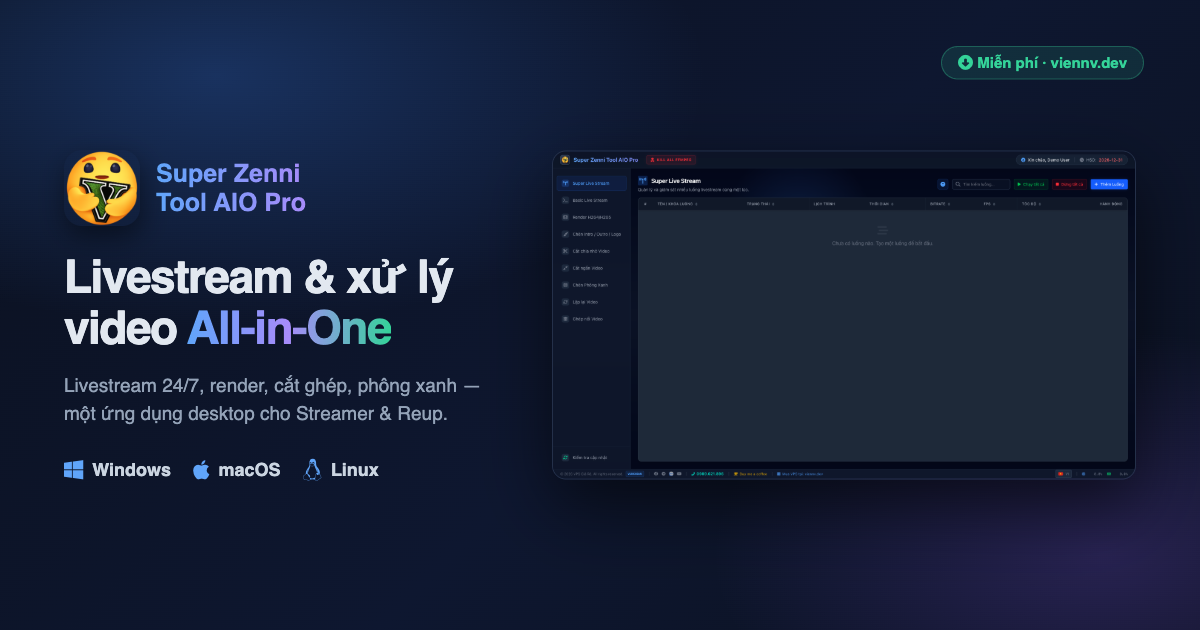
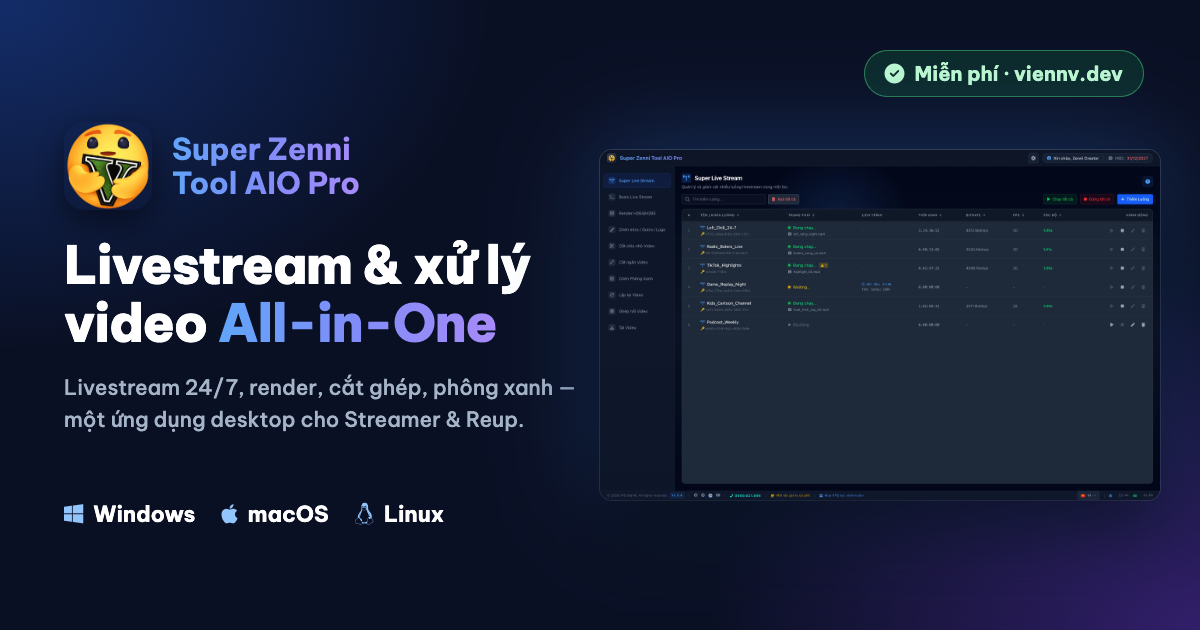
feat: real-UI screenshots with demo data + intro video
- Replace the empty-table screenshots with the current UI filled with demo
  data (running streams, renders in progress, downloads) — one set per page
  language (EN/VI), WebP, swapped by applyLang
- Gallery: 6 tools (Render, Intro/Outro/Logo, Green screen, Download,
  Basic Live Stream, in-app guide); lightbox caption follows the language
- New "Watch the intro" section: YouTube J_BgujEUUCw behind a poster, the
  player loads only on click (youtube-nocookie); hero CTA + nav link to it
- New og-image (cache-busted ?v=2), VideoObject structured data
- README: video badge + clickable poster

diff --git a/index.html b/index.html
@@ -19,7 +19,7 @@
 <meta property="og:url" content="https://zenni-aio.viennv.dev/" />
 <meta property="og:title" content="Super Zenni Tool AIO Pro — All-in-One Livestream &amp; Video Tool" />
 <meta property="og:description" content="24/7 multi-stream livestreaming, render, split/trim video, green screen. Free for Windows · macOS · Linux." />
-<meta property="og:image" content="https://zenni-aio.viennv.dev/assets/og-image.png" />
+<meta property="og:image" content="https://zenni-aio.viennv.dev/assets/og-image.png?v=2" />
 <meta property="og:image:width" content="1200" />
 <meta property="og:image:height" content="630" />
 <meta property="og:image:alt" content="Super Zenni Tool AIO Pro" />
@@ -28,7 +28,7 @@
 <meta name="twitter:card" content="summary_large_image" />
 <meta name="twitter:title" content="Super Zenni Tool AIO Pro" />
 <meta name="twitter:description" content="All-in-one livestream &amp; video tool. Free for Windows · macOS · Linux." />
-<meta name="twitter:image" content="https://zenni-aio.viennv.dev/assets/og-image.png" />
+<meta name="twitter:image" content="https://zenni-aio.viennv.dev/assets/og-image.png?v=2" />
 
 <link rel="icon" type="image/png" href="assets/favicon.png" />
 <link rel="apple-touch-icon" href="assets/favicon.png" />
@@ -166,6 +166,19 @@
   .shot img:hover { transform: translateY(-4px); box-shadow: 0 18px 44px rgba(59,130,246,.28); }
   .shot figcaption { text-align: center; color: var(--mut); font-size: 13px; margin-top: 10px; }
 
+  /* Intro video — a poster until clicked, so YouTube loads nothing up front */
+  .yt { position: relative; max-width: 960px; margin: 0 auto; aspect-ratio: 16 / 9; border-radius: 16px; overflow: hidden; border: 1px solid var(--line); box-shadow: 0 26px 70px rgba(0,0,0,.55); background: #000; }
+  .yt-play { position: absolute; inset: 0; width: 100%; height: 100%; padding: 0; border: 0; background: none; cursor: pointer; }
+  .yt-play img { width: 100%; height: 100%; object-fit: cover; display: block; transition: transform .3s, filter .3s; }
+  .yt-play:hover img { transform: scale(1.02); filter: brightness(1.08); }
+  .yt-btn { position: absolute; left: 50%; top: 50%; width: 84px; height: 60px; margin: -30px 0 0 -42px; border-radius: 16px; background: #ff0033; color: #fff; font-size: 24px; display: grid; place-items: center; box-shadow: 0 12px 34px rgba(0,0,0,.55); transition: transform .2s; }
+  .yt-play:hover .yt-btn { transform: scale(1.08); }
+  .yt iframe { position: absolute; inset: 0; width: 100%; height: 100%; border: 0; }
+  .yt-link { text-align: center; margin-top: 16px; font-size: 14px; }
+  .yt-link a { color: var(--mut); transition: color .15s; }
+  .yt-link a:hover { color: #fff; }
+  .yt-link .fa-youtube { color: #ff0033; }
+
   /* Lightbox */
   .lightbox { position: fixed; inset: 0; z-index: 1000; display: flex; align-items: center; justify-content: center; background: rgba(2,6,16,.9); backdrop-filter: blur(6px); padding: 32px; opacity: 0; visibility: hidden; transition: opacity .2s, visibility .2s; }
   .lightbox.open { opacity: 1; visibility: visible; }
@@ -274,6 +287,7 @@
     <div class="nav-right">
       <nav class="nav-links" id="navlinks">
         <a href="#download" data-i18n="nav.download">Download</a>
+        <a href="#video" data-i18n="nav.video">Video</a>
         <a href="#features" data-i18n="nav.features">Features</a>
         <a href="#screenshots" data-i18n="nav.screenshots">Screenshots</a>
         <a href="#install" data-i18n="nav.install">Install</a>
@@ -300,12 +314,12 @@
       <p class="tags"><i class="fab fa-windows"></i> Windows &nbsp;·&nbsp; <i class="fab fa-apple"></i> macOS &nbsp;·&nbsp; <i class="fab fa-linux"></i> Linux</p>
       <div class="cta">
         <a class="btn btn-primary" href="#download"><i class="fas fa-download"></i> <span data-i18n="hero.ctaDownload">Download now</span></a>
-        <a class="btn btn-ghost" href="#features"><i class="fas fa-rocket"></i> <span data-i18n="hero.ctaFeatures">See features</span></a>
+        <a class="btn btn-ghost" href="#video"><i class="fas fa-play"></i> <span data-i18n="hero.ctaVideo">Watch the intro</span></a>
       </div>
       <div><a class="ver" id="release-link" href="https://github.com/youtubervn/Super-Zenni-Tool-AIO-releases/releases/latest" target="_blank" rel="noopener" data-i18n="hero.allVersions">All versions &amp; changelog &#8599;</a></div>
     </div>
     <div class="hero-right">
-      <img class="hero-shot" src="assets/screenshots/super-live-stream.png" alt="Super Zenni Tool AIO Pro" loading="eager" />
+      <img class="hero-shot" src="assets/screenshots/super-live-stream-en.webp" data-shot="super-live-stream" width="1920" height="1200" alt="Super Zenni Tool AIO Pro — Super Live Stream" loading="eager" />
     </div>
   </div>
 </div>
@@ -343,6 +357,20 @@
   </div>
 </section>
 
+<!-- VIDEO -->
+<section id="video" style="background:var(--bg2);">
+  <div class="wrap">
+    <div class="sec-head"><h2><i class="fab fa-youtube"></i> <span data-i18n="video.title">Watch the intro</span></h2><p data-i18n="video.sub">Every tool in action — in under 2 minutes.</p></div>
+    <div class="yt">
+      <button class="yt-play" id="yt-play" type="button" aria-label="Play video" data-i18n-aria="video.play">
+        <img src="assets/video-poster.jpg" alt="Livestream 24/7 – Super Zenni Tool AIO Pro" width="1280" height="720" loading="lazy" />
+        <span class="yt-btn"><i class="fas fa-play"></i></span>
+      </button>
+    </div>
+    <p class="yt-link"><a href="https://youtu.be/J_BgujEUUCw" target="_blank" rel="noopener"><i class="fab fa-youtube"></i> <span data-i18n="video.open">Watch on YouTube</span> &#8599;</a></p>
+  </div>
+</section>
+
 <!-- FEATURES -->
 <section id="features">
   <div class="wrap">
@@ -369,9 +397,12 @@
   <div class="wrap">
     <div class="sec-head"><h2><i class="fas fa-image"></i> <span data-i18n="shots.title">Screenshots</span></h2><p data-i18n="shots.sub">Clean, modern, easy to use.</p></div>
     <div class="shots">
-      <figure class="shot"><img src="assets/screenshots/chroma-key.png" alt="Green Screen / Chroma Key" loading="lazy" /><figcaption data-i18n="shots.cap1">Green Screen — overlay a chroma-key clip onto your video</figcaption></figure>
-      <figure class="shot"><img src="assets/screenshots/render-h264.png" alt="Render H264/H265" loading="lazy" /><figcaption data-i18n="shots.cap2">Render H264 / H265 — batch transcode</figcaption></figure>
-      <figure class="shot"><img src="assets/screenshots/in-app-guide.png" alt="In-app guide" loading="lazy" /><figcaption data-i18n="shots.cap3">Built-in guide for each tool</figcaption></figure>
+      <figure class="shot"><img src="assets/screenshots/render-h264-en.webp" data-shot="render-h264" width="1920" height="1200" alt="Render H264 / H265" loading="lazy" /><figcaption data-i18n="shots.cap1"></figcaption></figure>
+      <figure class="shot"><img src="assets/screenshots/intro-outro-logo-en.webp" data-shot="intro-outro-logo" width="1920" height="1200" alt="Intro / Outro / Logo" loading="lazy" /><figcaption data-i18n="shots.cap2"></figcaption></figure>
+      <figure class="shot"><img src="assets/screenshots/chroma-key-en.webp" data-shot="chroma-key" width="1920" height="1200" alt="Green Screen / Chroma Key" loading="lazy" /><figcaption data-i18n="shots.cap3"></figcaption></figure>
+      <figure class="shot"><img src="assets/screenshots/download-video-en.webp" data-shot="download-video" width="1920" height="1200" alt="Download Video" loading="lazy" /><figcaption data-i18n="shots.cap4"></figcaption></figure>
+      <figure class="shot"><img src="assets/screenshots/basic-live-stream-en.webp" data-shot="basic-live-stream" width="1920" height="1200" alt="Basic Live Stream" loading="lazy" /><figcaption data-i18n="shots.cap5"></figcaption></figure>
+      <figure class="shot"><img src="assets/screenshots/in-app-guide-en.webp" data-shot="in-app-guide" width="1920" height="1200" alt="In-app guide" loading="lazy" /><figcaption data-i18n="shots.cap6"></figcaption></figure>
     </div>
   </div>
 </section>
@@ -472,10 +503,10 @@
   /* ---------------- i18n ---------------- */
   var I18N = {
     en: {
-      "nav.download":"Download","nav.features":"Features","nav.screenshots":"Screenshots","nav.stats":"Stats","nav.install":"Install","nav.faq":"FAQ",
+      "nav.download":"Download","nav.video":"Video","nav.features":"Features","nav.screenshots":"Screenshots","nav.stats":"Stats","nav.install":"Install","nav.faq":"FAQ",
       "hero.latest":"Latest version","hero.title":"All-in-One video toolkit <span class=\"grad\">for Streamers &amp; Reup</span>",
       "hero.sub":"24/7 livestreaming, render, split &amp; merge, intro/outro/logo, green screen — all in one desktop app. Auto-updating, nothing else to install.",
-      "hero.ctaDownload":"Download now","hero.ctaFeatures":"See features","hero.allVersions":"All versions &amp; changelog &#8599;",
+      "hero.ctaDownload":"Download now","hero.ctaVideo":"Watch the intro","hero.allVersions":"All versions &amp; changelog &#8599;",
       "dl.title":"Download","dl.sub":"Pick your operating system — links always point to the latest build.","dl.btn":"Download",
       "dl.noteWin":"Run directly, no install","dl.noteMac":"Unzip → drag to Applications","dl.noteLinux":"Extract → make executable",
       "dl.version":"Version","dl.released":"Released","dl.req":"Windows 10+ · macOS 11+ · 64-bit",
@@ -496,7 +527,8 @@
       "feat.download.h":"Download Video","feat.download.p":"Batch-download from URLs with yt-dlp — sequential top-to-bottom, live progress, and clickable errors per video.",
       "feat.settings.h":"Settings &amp; Dependencies","feat.settings.p":"App-wide settings: auto-start, notifications, tray, one global NVIDIA-GPU switch, and a Kill All FFmpeg emergency stop. Check &amp; install ffmpeg / ffplay / ffprobe / yt-dlp on demand.",
       "shots.title":"Screenshots","shots.sub":"Clean, modern, easy to use.",
-      "shots.cap1":"Green Screen — overlay a chroma-key clip onto your video","shots.cap2":"Render H264 / H265 — batch transcode","shots.cap3":"Built-in guide for each tool",
+      "shots.cap1":"Render H264 / H265 — batch transcode with live per-file progress","shots.cap2":"Intro / Outro / Logo — brand a whole batch of videos at once","shots.cap3":"Green Screen — overlay a chroma-key clip onto your videos","shots.cap4":"Download Video — paste many links, they download one by one","shots.cap5":"Basic Live Stream — standalone scripts that keep streaming on their own","shots.cap6":"Built-in guide for each tool",
+      "video.title":"Watch the intro","video.sub":"Every tool in action — in under 2 minutes.","video.play":"Play video","video.open":"Watch on YouTube",
       "inst.title":"Install in 3 steps","inst.s1h":"Download","inst.s1p":"Pick the file for your OS in the Download section above.",
       "inst.s2h":"Open the app","inst.s2p":"<b>Windows:</b> run the .exe (if SmartScreen warns → More info → Run anyway).<br/><b>macOS:</b> unzip, drag to Applications, then right-click → Open (macOS 15+: System Settings → Privacy &amp; Security → Open Anyway).<br/><b>Linux:</b> extract &amp; run.",
       "inst.s3h":"Start using","inst.s3p":"On first launch the app downloads FFmpeg/yt-dlp. Sign in with your username or email and use every tool.",
@@ -514,10 +546,10 @@
       "donate.bankNote":"Scan with any VietQR / banking app · any amount is appreciated"
     },
     vi: {
-      "nav.download":"Tải về","nav.features":"Tính năng","nav.screenshots":"Giao diện","nav.stats":"Thống kê","nav.install":"Cài đặt","nav.faq":"FAQ",
+      "nav.download":"Tải về","nav.video":"Video","nav.features":"Tính năng","nav.screenshots":"Giao diện","nav.stats":"Thống kê","nav.install":"Cài đặt","nav.faq":"FAQ",
       "hero.latest":"Phiên bản mới nhất","hero.title":"Bộ công cụ video <span class=\"grad\">All-in-One</span> cho Streamer &amp; Reup",
       "hero.sub":"Livestream 24/7, render, cắt &amp; ghép video, intro/outro/logo, ghép phông xanh — tất cả trong một ứng dụng desktop. Tự cập nhật, không cần cài thêm gì.",
-      "hero.ctaDownload":"Tải về ngay","hero.ctaFeatures":"Xem tính năng","hero.allVersions":"Xem tất cả phiên bản &amp; changelog &#8599;",
+      "hero.ctaDownload":"Tải về ngay","hero.ctaVideo":"Xem video giới thiệu","hero.allVersions":"Xem tất cả phiên bản &amp; changelog &#8599;",
       "dl.title":"Tải về","dl.sub":"Chọn hệ điều hành của bạn — link luôn trỏ tới bản mới nhất.","dl.btn":"Tải về",
       "dl.noteWin":"Chạy trực tiếp, không cần cài","dl.noteMac":"Giải nén → kéo vào Applications","dl.noteLinux":"Giải nén → cấp quyền chạy",
       "dl.version":"Phiên bản","dl.released":"Phát hành","dl.req":"Windows 10+ · macOS 11+ · 64-bit",
@@ -538,7 +570,8 @@
       "feat.download.h":"Tải Video","feat.download.p":"Tải hàng loạt từ URL bằng yt-dlp — tuần tự từ trên xuống, có tiến trình trực tiếp và bấm xem lỗi từng video.",
       "feat.settings.h":"Cài đặt &amp; Phụ thuộc","feat.settings.p":"Cài đặt toàn app: khởi động cùng Windows, thông báo, khay hệ thống, một công tắc GPU NVIDIA chung, và nút Kill All FFmpeg dừng khẩn cấp. Kiểm tra &amp; cài ffmpeg / ffplay / ffprobe / yt-dlp khi cần.",
       "shots.title":"Giao diện","shots.sub":"Thiết kế tối giản, hiện đại, dễ dùng.",
-      "shots.cap1":"Phông xanh — chèn clip chroma-key lên video của bạn","shots.cap2":"Render H264 / H265 — chuyển mã hàng loạt","shots.cap3":"Hướng dẫn ngay trong app cho từng công cụ",
+      "shots.cap1":"Render H264 / H265 — chuyển mã hàng loạt, tiến độ từng file","shots.cap2":"Intro / Outro / Logo — gắn thương hiệu cho cả loạt video một lần","shots.cap3":"Phông xanh — chèn clip chroma-key lên video của bạn","shots.cap4":"Tải video — dán nhiều link, tự tải lần lượt","shots.cap5":"Basic Live Stream — script livestream chạy độc lập","shots.cap6":"Hướng dẫn ngay trong app cho từng công cụ",
+      "video.title":"Video giới thiệu","video.sub":"Xem mọi công cụ hoạt động — chưa đầy 2 phút.","video.play":"Phát video","video.open":"Xem trên YouTube",
       "inst.title":"Cài đặt trong 3 bước","inst.s1h":"Tải về","inst.s1p":"Chọn file đúng hệ điều hành ở mục Tải về phía trên.",
       "inst.s2h":"Mở ứng dụng","inst.s2p":"<b>Windows:</b> chạy .exe (nếu SmartScreen cảnh báo → More info → Run anyway).<br/><b>macOS:</b> giải nén, kéo vào Applications, rồi chuột phải → Open (macOS 15+: System Settings → Privacy &amp; Security → Open Anyway).<br/><b>Linux:</b> giải nén &amp; chạy.",
       "inst.s3h":"Bắt đầu dùng","inst.s3p":"Lần đầu mở, app tự tải FFmpeg/yt-dlp. Đăng nhập bằng tên đăng nhập hoặc email và sử dụng tất cả công cụ.",
@@ -574,6 +607,9 @@
     });
     document.querySelectorAll("[data-i18n-aria]").forEach(function (el) {
       var k = el.getAttribute("data-i18n-aria"); if (dict[k] != null) el.setAttribute("aria-label", dict[k]);
+    });
+    document.querySelectorAll("img[data-shot]").forEach(function (img) {
+      img.src = "assets/screenshots/" + img.getAttribute("data-shot") + "-" + lang + ".webp";
     });
     document.querySelectorAll(".lang button").forEach(function (b) {
       b.classList.toggle("active", b.getAttribute("data-lang") === lang);
@@ -721,12 +757,31 @@
     .then(function (d) { var n = parseInt(String(d.count || d.count_unique || "0").replace(/[^\d]/g, ""), 10) || 0; cuVisits.set(n); })
     .catch(function () { /* leave visits at 0 */ });
 
+  /* ---------------- intro video: load YouTube only when asked ---------------- */
+  (function () {
+    var btn = document.getElementById("yt-play"); if (!btn) return;
+    btn.addEventListener("click", function () {
+      var f = document.createElement("iframe");
+      f.src = "https://www.youtube-nocookie.com/embed/J_BgujEUUCw?autoplay=1&rel=0&hl=" + lang;
+      f.title = "Super Zenni Tool AIO Pro";
+      f.allow = "accelerometer; autoplay; clipboard-write; encrypted-media; gyroscope; picture-in-picture; web-share";
+      f.allowFullscreen = true;
+      f.referrerPolicy = "strict-origin-when-cross-origin";
+      btn.replaceWith(f);
+    });
+  })();
+
   /* ---------------- lightbox ---------------- */
   (function () {
     var lb = document.getElementById("lightbox"), lbImg = document.getElementById("lightbox-img"), lbCap = document.getElementById("lightbox-cap");
     function open(src, alt) { lbImg.src = src; lbImg.alt = alt || ""; lbCap.textContent = alt || ""; lb.classList.add("open"); document.body.style.overflow = "hidden"; }
     function close() { lb.classList.remove("open"); document.body.style.overflow = ""; setTimeout(function () { lbImg.src = ""; }, 200); }
-    document.querySelectorAll(".shot img, .hero-shot").forEach(function (img) { img.addEventListener("click", function () { open(img.src, img.alt); }); });
+    document.querySelectorAll(".shot img, .hero-shot").forEach(function (img) {
+      img.addEventListener("click", function () {
+        var cap = img.closest("figure") && img.closest("figure").querySelector("figcaption");
+        open(img.src, cap ? cap.textContent : img.alt);
+      });
+    });
     lb.addEventListener("click", close);
     document.getElementById("lightbox-close").addEventListener("click", function (e) { e.stopPropagation(); close(); });
     document.addEventListener("keydown", function (e) { if (e.key === "Escape") close(); });
@@ -797,11 +852,25 @@
   "applicationCategory": "MultimediaApplication",
   "description": "All-in-one 24/7 multi-stream livestreaming and video processing: render H264/H265, split/trim/loop/concat, intro-outro-logo, green screen.",
   "url": "https://zenni-aio.viennv.dev/",
-  "image": "https://zenni-aio.viennv.dev/assets/og-image.png",
+  "image": "https://zenni-aio.viennv.dev/assets/og-image.png?v=2",
   "downloadUrl": "https://github.com/youtubervn/Super-Zenni-Tool-AIO-releases/releases/latest",
   "softwareVersion": "1.0.0",
   "author": { "@type": "Organization", "name": "viennv.dev", "url": "https://viennv.dev" },
   "offers": { "@type": "Offer", "price": "0", "priceCurrency": "USD" }
+}
+</script>
+
+<script type="application/ld+json">
+{
+  "@context": "https://schema.org",
+  "@type": "VideoObject",
+  "name": "Livestream 24/7 Tự Động, Nhiều Luồng – Giới Thiệu Super Zenni Tool AIO Pro",
+  "description": "Giới thiệu Super Zenni Tool AIO Pro: livestream 24/7 nhiều luồng, render H264/H265 hàng loạt, intro/outro/logo, phông xanh, chia – cắt – lặp – ghép và tải video trong một ứng dụng.",
+  "thumbnailUrl": ["https://i.ytimg.com/vi/J_BgujEUUCw/maxresdefault.jpg", "https://zenni-aio.viennv.dev/assets/video-poster.jpg"],
+  "uploadDate": "2026-10-29T09:16:23-07:00",
+  "duration": "PT1M42S",
+  "contentUrl": "https://www.youtube.com/watch?v=J_BgujEUUCw",
+  "embedUrl": "https://www.youtube.com/embed/J_BgujEUUCw"
 }
 </script>
 

diff --git a/README.md b/README.md
@@ -9,6 +9,7 @@
 [![Download](https://img.shields.io/badge/⬇_Tải_về-Bản_mới_nhất-22c55e?style=for-the-badge)](https://github.com/youtubervn/Super-Zenni-Tool-AIO-releases/releases/latest)
 [![Platform](https://img.shields.io/badge/Windows_·_macOS_·_Linux-0ea5e9?style=for-the-badge)](#-tải-về)
 [![Website](https://img.shields.io/badge/🌐_viennv.dev-1e293b?style=for-the-badge)](https://viennv.dev)
+[![Video](https://img.shields.io/badge/▶_Video_giới_thiệu-ff0033?style=for-the-badge&logo=youtube&logoColor=white)](https://youtu.be/J_BgujEUUCw)
 
 </div>
 
@@ -18,6 +19,12 @@
 
 > ⚡ Dùng FFmpeg & yt-dlp, **tự tải về khi mở lần đầu** — không cần cài đặt gì thêm.
 > 🖥 Chạy trên **Windows, macOS (Apple Silicon + Intel), và Linux**.
+
+---
+
+## ▶ Video giới thiệu
+
+[![Xem video giới thiệu Super Zenni Tool AIO Pro trên YouTube](assets/video-poster.jpg)](https://youtu.be/J_BgujEUUCw)
 
 ---
 
